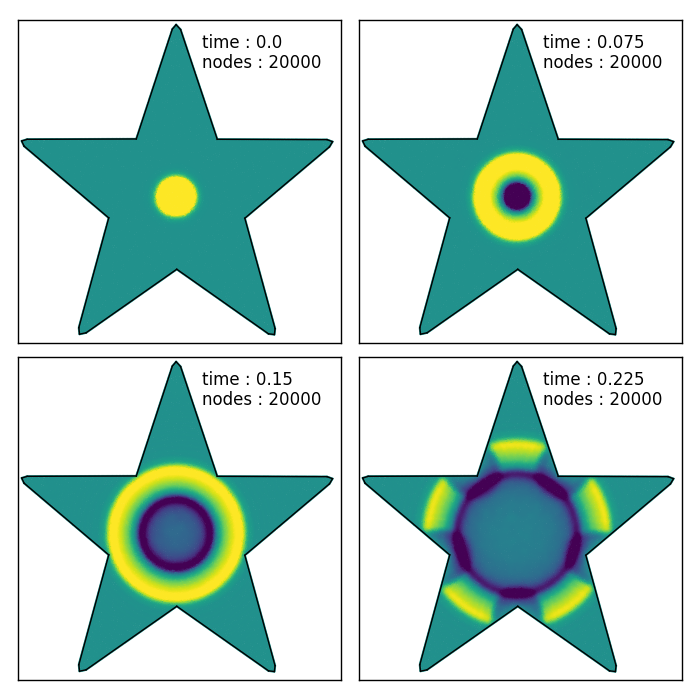
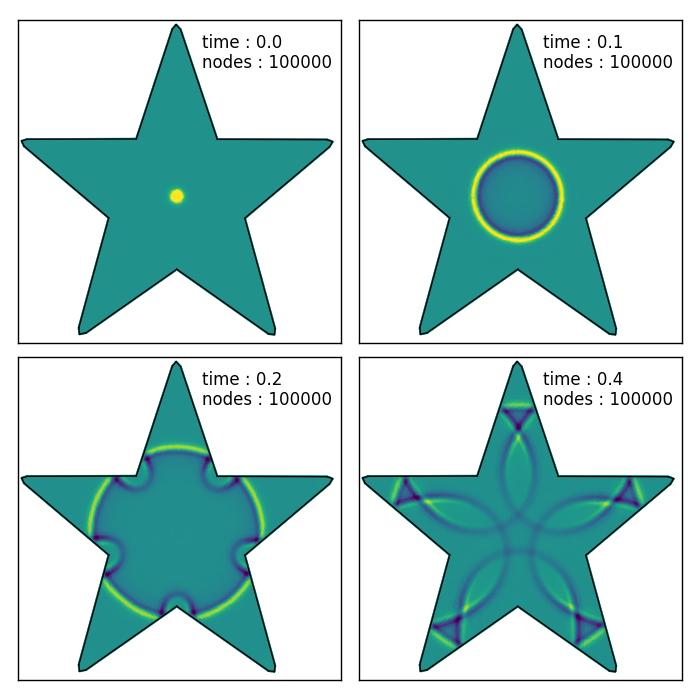
added better fd example

diff --git a/docs/scripts/fd.a.py b/docs/scripts/fd.a.py
@@ -15,30 +15,30 @@ vert = np.array([[0.762,0.057],[0.492,0.247],[0.225,0.06 ],[0.206,0.056],
 smp = np.array([[0,1],[1,2],[2,3],[3,4],[4,5],[5,6],[6,7],[7,8],[8,9],
                 [9,10],[10,11],[11,12],[12,13],[13,14],[14,15],[15,16],
                 [16,17],[17,18],[18,19],[19,0]])
-dt = 0.0015 # time step size
-N = 20000 # total number of nodes
+dt = 0.000025 # time step size
+N = 100000 # total number of nodes
 nodes,smpid = menodes(N,vert,smp) # generate nodes
 boundary, = (smpid>=0).nonzero() # identify boundary nodes
 interior, = (smpid==-1).nonzero() # identify interior nodes
 D = weight_matrix(nodes[interior],nodes,[[2,0],[0,2]],n=30)
 r = np.linalg.norm(nodes-np.array([0.49,0.46]),axis=1)
-u_prev = 1.0/(1 + (r/0.05)**10) # create initial conditions
-u_curr = 1.0/(1 + (r/0.05)**10)
+u_prev = 1.0/(1 + (r/0.01)**4) # create initial conditions
+u_curr = 1.0/(1 + (r/0.01)**4)
 fig,axs = plt.subplots(2,2,figsize=(7,7))
 axs = [axs[0][0],axs[0][1],axs[1][0],axs[1][1]]
-for i in range(151):
+for i in range(15001):
   u_next = dt**2*D.dot(u_curr) + 2*u_curr[interior] - u_prev[interior]
   u_prev[:] = u_curr
   u_curr[interior] = u_next
-  if i in [0,50,100,150]:  
-    ax = axs[[0,50,100,150].index(i)]
+  if i in [0,5000,10000,15000]:  
+    ax = axs[[0,5000,10000,15000].index(i)]
     p = ax.scatter(nodes[:,0],nodes[:,1],s=3,c=np.array(u_curr,copy=True),
-                   edgecolor='none',cmap='viridis',vmin=-0.2,vmax=0.2)
+                   edgecolor='none',cmap='viridis',vmin=-0.1,vmax=0.1)
     for s in smp: ax.plot(vert[s,0],vert[s,1],'k-')
     ax.set_aspect('equal')
     ax.get_xaxis().set_visible(False);ax.get_yaxis().set_visible(False)
     ax.set_xlim((0.025,0.975));ax.set_ylim((0.03,0.98))
-    ax.text(0.57,0.85,'time : %s\nnodes : %s' % ((i*dt),N),
+    ax.text(0.57,0.85,'time : %s\nnodes : %s' % (np.round(i*dt,1),N),
             transform=ax.transAxes,fontsize=12)
 
 plt.tight_layout()    
